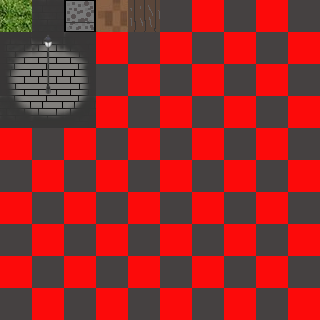
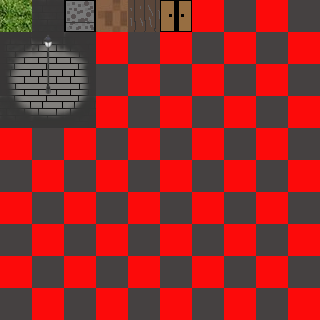
Creado otro mapa, y puesto el juego en pantalla completa

Changed region(s): [[0.5, 0.0, 0.625, 0.125]]

diff --git a/Proy_JuegoRol/src/principal/Constantes.java b/Proy_JuegoRol/src/principal/Constantes.java
@@ -4,14 +4,21 @@ public class Constantes {
 
 	public static final int LADO_SPRITE = 32;
 	
-	public static final int ANCHO_VENTANA = 1000;
-	public static final int ALTO_VENTANA = 600;
+	public static final int ANCHO_VENTANA = 1366 / 3;
+	public static final int ALTO_VENTANA = 768 / 3;
+	
+	public static int ANCHO_PANTALLA_COMPLETA = 1366;
+	public static int ALTO_PANTALLA_COMPLETA = 768;
+	
+	public static double factorEscaladoX = 2;
+	public static double factorEscaladoY = 2;
 	
 	public static final String HOJA_TEXTURAS_1 = "/texturas/001.png";
 	
 	public static final String HOJA_PERSONAJE_1 = "/personaje/001.png";
 	
 	public static final String MAPA_1 = "/mapas/mapa001.txt";
+	public static final String MAPA_2 = "/mapas/mapa002.txt";
 	
 	public static final String ICONO = "/icon/juego.png";
 	

diff --git a/Proy_JuegoRol/src/principal/Principal.java b/Proy_JuegoRol/src/principal/Principal.java
@@ -5,7 +5,7 @@ public class Principal {
 	public static void main(String[] args) {
 		final String TITULO = "Juego";
 
-		GestorPrincipal g = new GestorPrincipal(TITULO, Constantes.ANCHO_VENTANA, Constantes.ALTO_VENTANA);
+		GestorPrincipal g = new GestorPrincipal(TITULO, Constantes.ANCHO_PANTALLA_COMPLETA, Constantes.ALTO_PANTALLA_COMPLETA);
 
 		g.iniciarJuego();
 		g.iniciarBuclePrincipal();

diff --git a/Proy_JuegoRol/src/principal/control/Teclado.java b/Proy_JuegoRol/src/principal/control/Teclado.java
@@ -30,6 +30,9 @@ public final class Teclado implements KeyListener {
 		case KeyEvent.VK_SHIFT:
 			corriendo = true;
 			break;
+		case KeyEvent.VK_ESCAPE:
+			System.exit(0);
+			break;
 		default:
 			break;
 		}
